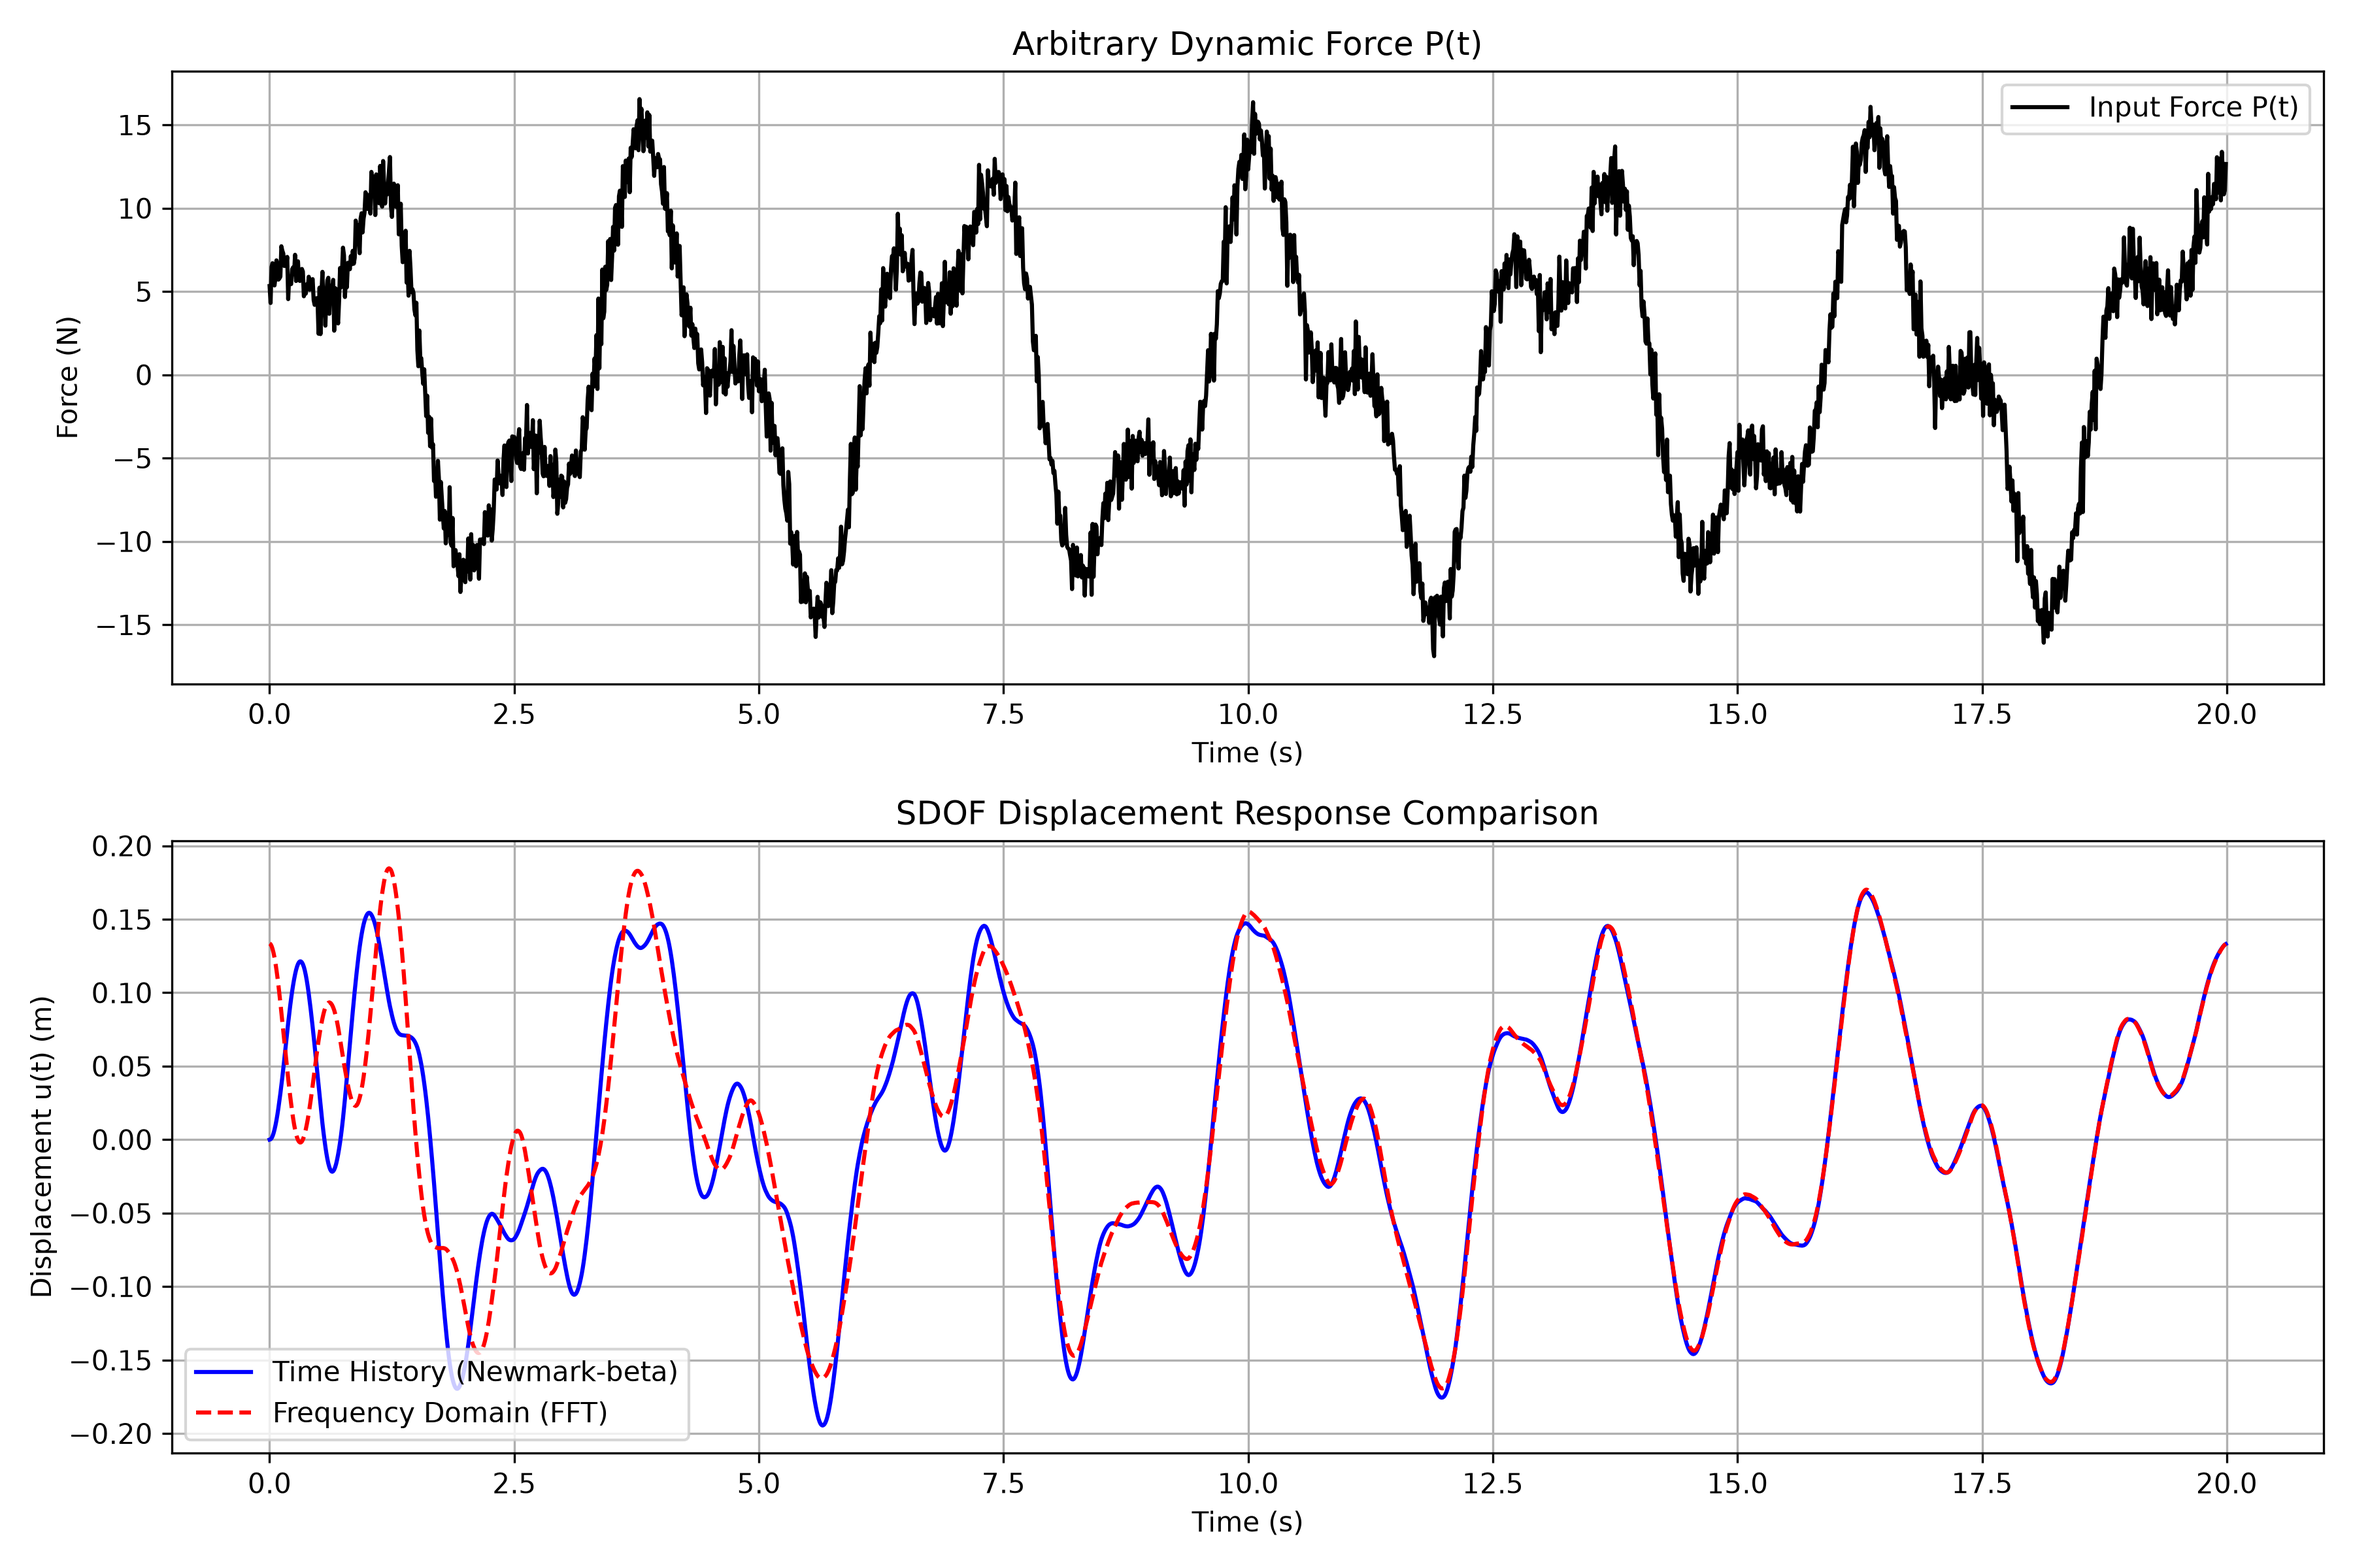
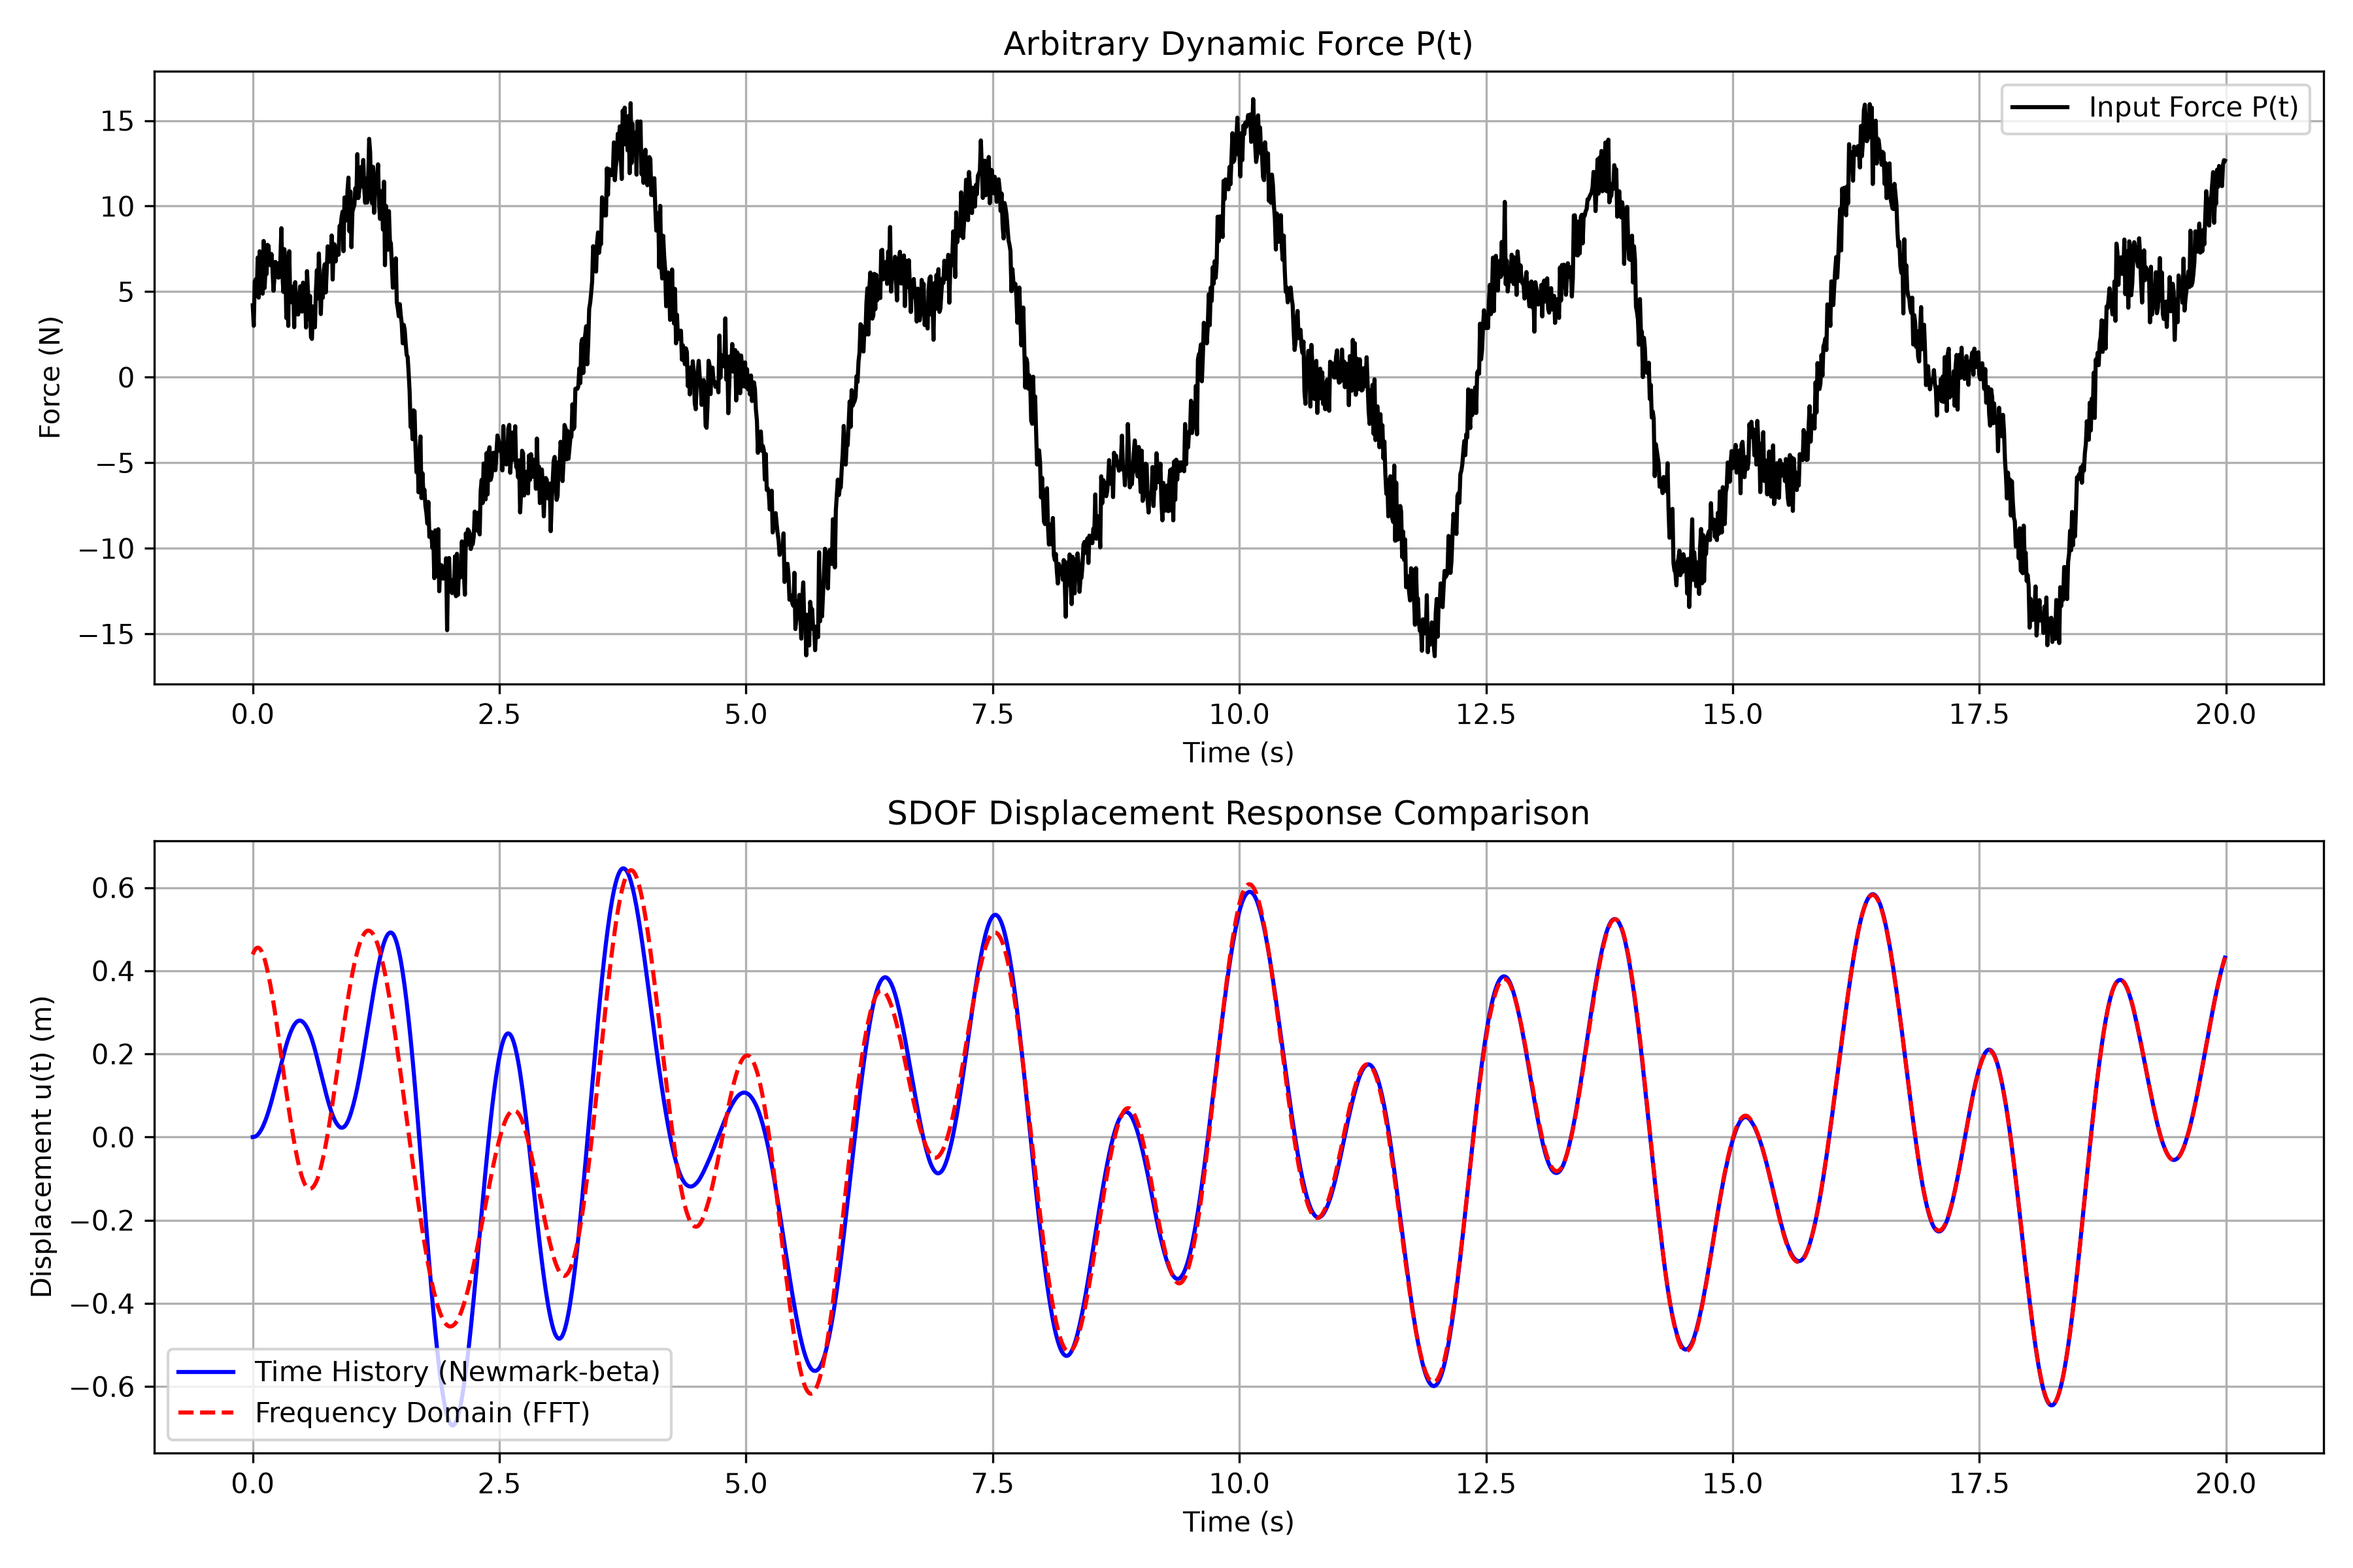
update: SDOF 고유주기 및 강성 파라미터 수정 반영

diff --git a/main.py b/main.py
@@ -2,10 +2,11 @@ import numpy as np
 import matplotlib.pyplot as plt
 from scipy.fft import fft, ifft, fftfreq
 
-# 1. SDOF 시스템 및 하중 조건 설정
-m = 1.0       # Mass (kg)
-k = 100.0     # Stiffness (N/m)
-c = 0.5       # Damping coefficient (N·s/m)
+# 1. SDOF 시스템 및 하중 조건 설정 (고유주기 1초 기준)
+m = 1.0                         # Mass (kg)
+k = 4 * (3.1415926535) ** 2     # Stiffness (N/m) ≈ 39.478 (고유주기 1초 맞춤)
+damping_ratio = 0.05            # 감쇠비 5% 표준 적용
+c = 2 * damping_ratio * (m * k) ** 0.5  # 감쇠계수 계산 (c = 2 * zeta * sqrt(m*k))
 
 # 시간 설정
 dt = 0.01     # Time step (sec)
